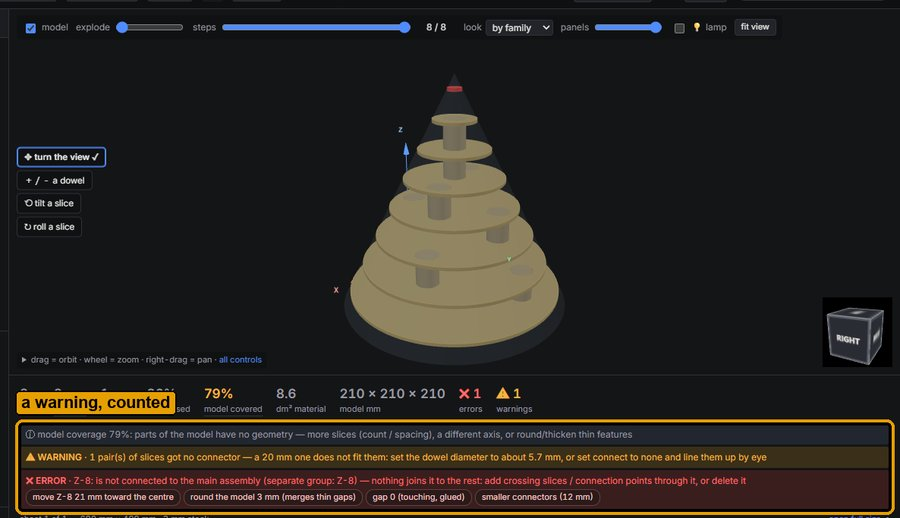
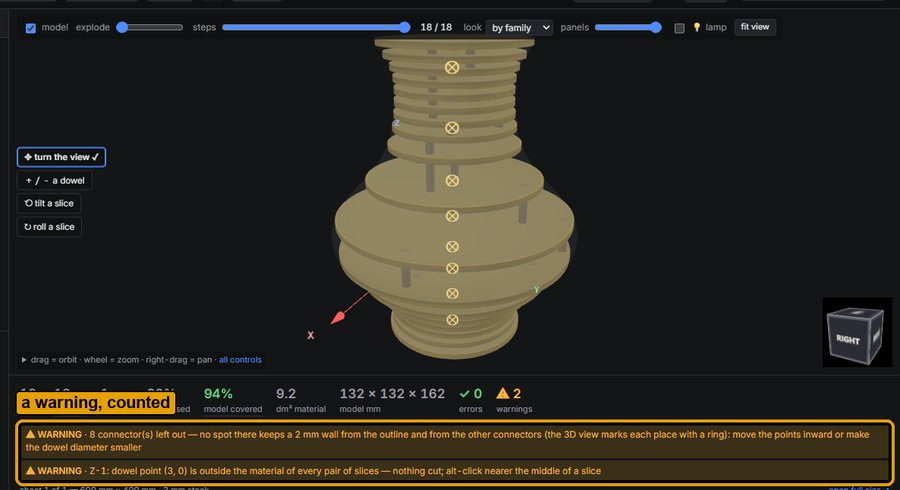
News: the warnings picture on the vase with two dowel points 3 mm apart, 8 connectors left out and ringed

diff --git a/scripts/media/news.py b/scripts/media/news.py
@@ -336,10 +336,10 @@ def n040_cards(app):
 
 
 def n040_warnings(app):
-    app.example("cone", "stacked")          # 20 mm dowels: the tip is too narrow for one, so it is left out (test_modes)
-    for k, v in (("connect", "dowel"), ("n_points", 2), ("dowel_d", 20), ("distribution", "count"), ("count", 8)):
-        app.set(k, v)
-    app.view(25, 20, 0.9, only3d=False)
+    app.example("vase", "stacked")          # two dowel points 3 mm apart: no room for both, so 8 are left out, each ringed
+    app.p.evaluate("d => window.__t.applyFix({dowels: d})", [[0, 0], [3, 0]])
+    app.idle()
+    app.view(25, 20, 0.75, only3d=False)
     x0, y0, x1, _ = app.box(VIEW)
     app.shot("0.4.0-warnings", (x0, y0, x1, app.box("#msgs")[3]), [("#msgs", "a warning, counted")])
 

diff --git a/CHANGELOG.md b/CHANGELOG.md
@@ -85,7 +85,7 @@ in the 3D view. Make a mask from any model, and light it from inside to see it a
 - **Clear warnings.** A warning starts with ⚠ WARNING and an error with ✖ ERROR. A dowel with no room is now a
   counted warning, with a ring where it is.
 
-  ![A warning and an error, each with its sign: the cone's tip has no room for its dowel](web/static/news/0.4.0-warnings.jpg)
+  ![A dowel warning, and the rings in the 3D view where the dowels found no room](web/static/news/0.4.0-warnings.jpg)
 
 - **Watch it fold up.** On a folded job, the steps slider ends by folding the panels from flat to the model.
 
